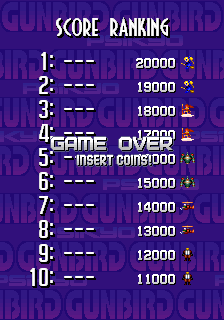
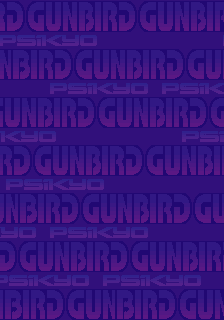
0.4.7.15
-Changed Gameover screen
-Added final score

diff --git a/Gunbird 0.4.7 (PowerUp)/Gunbird/ModuleCongrats.cpp b/Gunbird 0.4.7 (PowerUp)/Gunbird/ModuleCongrats.cpp
@@ -10,6 +10,9 @@
 #include "ModuleInput.h"
 #include "ModuleAudio.h"
 #include "ModuleFadeToBlack.h"
+#include "ModuleFonts.h"
+
+#include <stdio.h>
 
 
 ModuleCongrats::ModuleCongrats()
@@ -33,25 +36,49 @@ bool ModuleCongrats::Start()
 	LOG("Loading background assets");
 	bool ret = true;
 	congratstexture = App->textures->Load("background_congrats.png");
+	gameovertexture = App->textures->Load("ui.png");
+	rankingtexture = App->textures->Load("game_over_ui.png");
 	App->audio->LoadMusic("Audio/stageclear.ogg");
+	font_score = App->fonts->Load("numbers_score.png", "0123456789", 1);
+
+	gameover.PushBack({ 2,91,124,31 });
+	gameover.PushBack({ 0,0,0,0 });
+	gameover.speed = 0.013f;
+
+	p1.PushBack({ 8,30,55,20 });
+	score_ranking.PushBack({ 6,3,114,21 });
+
 	return ret;
 }
 
 bool ModuleCongrats::CleanUp()
 {
 	App->textures->Unload(congratstexture);
+	App->textures->Unload(gameovertexture);
+	App->fonts->UnLoad(font_score);
 	LOG("Unloading stage");
+
+
+
 	return true;
 }
 
 // Update: draw background
 update_status ModuleCongrats::Update()
 {
+	char str[10];
 
 	// Draw everything --------------------------------------
 
 
 	App->render->Blit(congratstexture, 0, -320 + SCREEN_HEIGHT, &congrats, 0.75f);
+
+	App->render->Blit(gameovertexture, 50, 136, &(gameover.GetCurrentFrame()), 0.22f);
+	App->render->Blit(rankingtexture, 41, 52, &(p1.GetCurrentFrame()), 0.22f);
+	App->render->Blit(rankingtexture, 56, 17, &(score_ranking.GetCurrentFrame()), 0.22f);
+
+	sprintf_s(str, "%i", App->player->score);
+	App->fonts->BlitText(136, 58, font_score, str);
 
 
 	if (App->input->keyboard[SDL_SCANCODE_P] && change) {

diff --git a/Gunbird 0.4.7 (PowerUp)/Gunbird/ModuleCongrats.h b/Gunbird 0.4.7 (PowerUp)/Gunbird/ModuleCongrats.h
@@ -20,8 +20,13 @@ public:
 public:
 	bool change = true;
 	SDL_Texture* congratstexture = nullptr;
+	SDL_Texture* gameovertexture = nullptr;
+	SDL_Texture* rankingtexture = nullptr;
 	SDL_Rect congrats;
-	/*handout2*/uint fx = 0;
+	Animation gameover;
+	Animation p1,score_ranking;
+	int font_score = -1;
+	uint fx = 0;
 
 };
 
